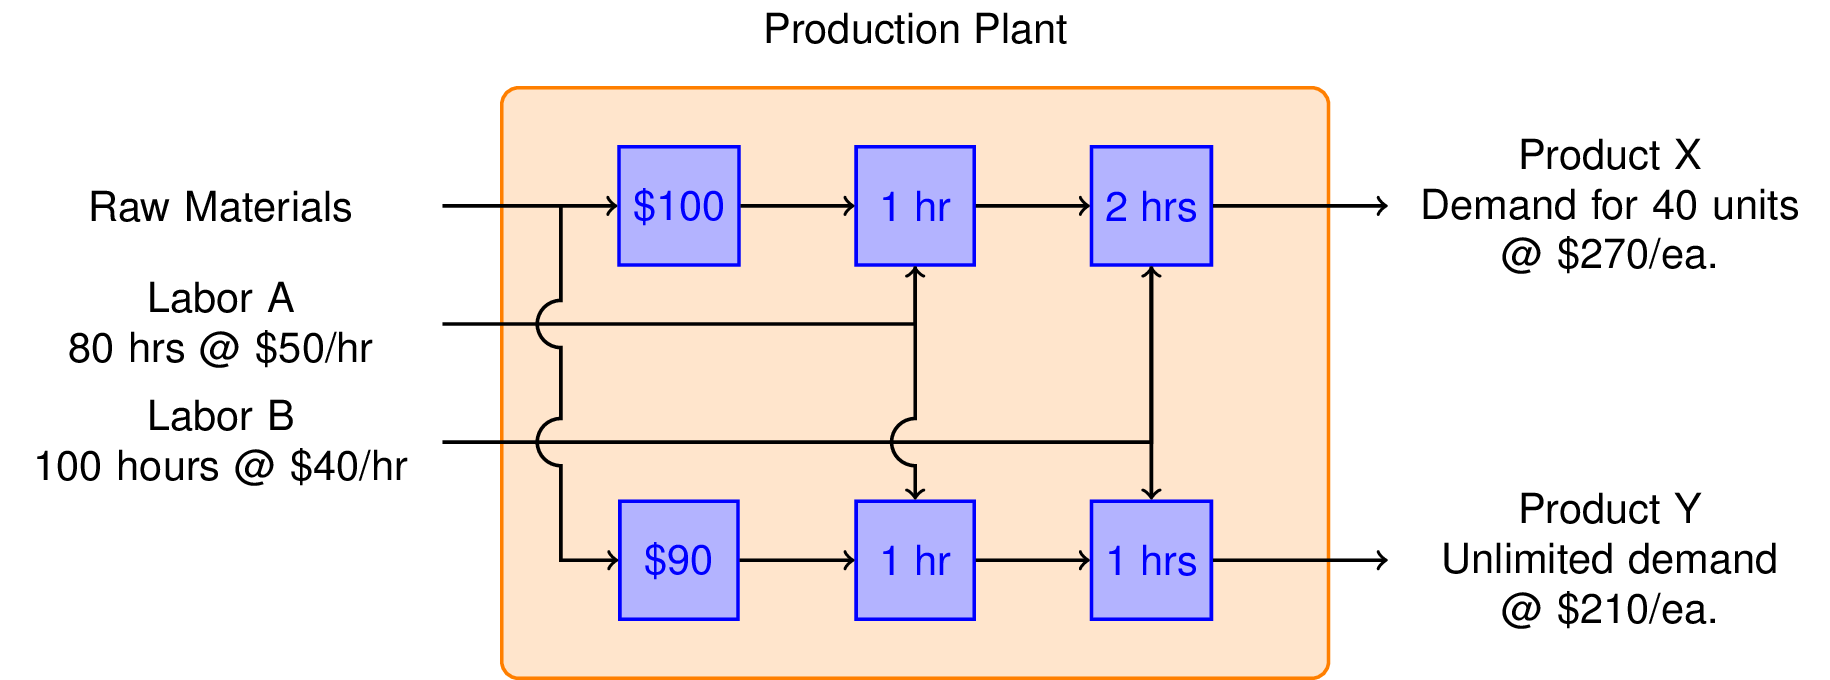
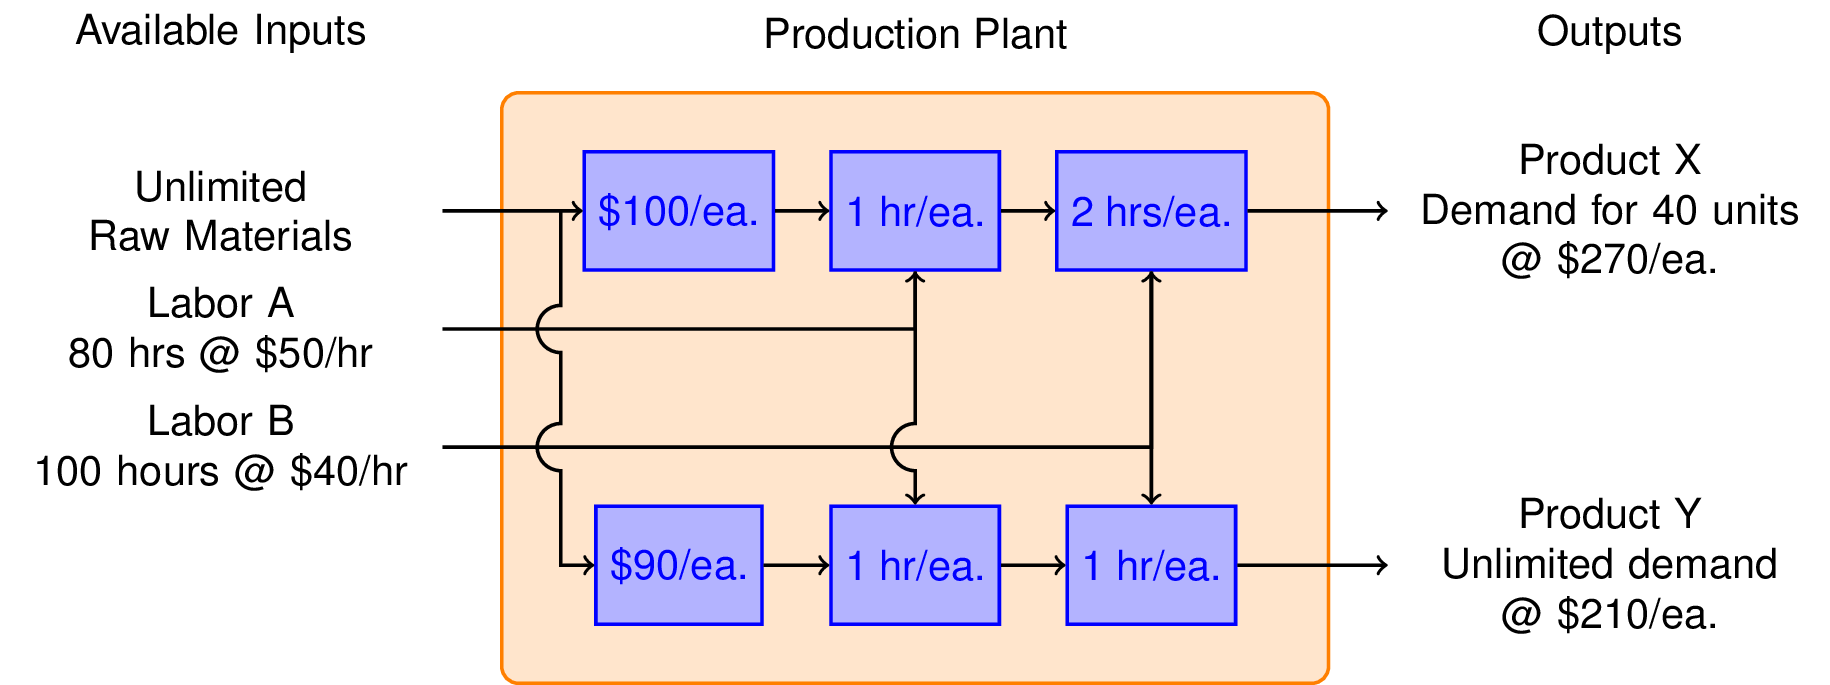
update figures

diff --git a/notebooks/img/LP_ProductY.tex b/notebooks/img/LP_ProductY.tex
@@ -16,30 +16,34 @@
     rectangle, rounded corners, text centered]
 
 \begin{tikzpicture}[auto,thick]
-    %\draw[help lines] (0,0) grid (15,8);
+    %\draw[help lines] (-1,1) grid (14,6);
     
     \draw [orange, fill=orange!20, rounded corners] (3,1.5) rectangle ++(7,3.5);
     \node [rectangle, blue, fill=blue!30, minimum width = 1cm, minimum height = 1cm, draw] 
-        (box1) at (4.5,4) {\$90};
+        (box1) at (4.5,4) {\$90/ea.};
     \node [rectangle, blue, fill=blue!30, minimum width = 1cm, minimum height = 1cm, draw] 
-        (box2) at (6.5,4) {1 hr};
+        (box2) at (6.5,4) {1 hr/ea.};
     \node [rectangle, blue, fill=blue!30, minimum width = 1cm, minimum height = 1cm, draw] 
-        (box3) at (8.5,4) {1 hrs};
+        (box3) at (8.5,4) {1 hr/ea.};
     
+    \draw (box1) ++(-2,1.5) 
+        node [left,rectangle,align=center, text width = 3.5cm] {Available Inputs};
     \draw [<-] (box1) -- ++(-2,0) 
         node [left,rectangle, align=center, text width = 3.5cm]
-        {Raw Materials};
+        {Unlimited\\Raw Materials};
     \draw [<-] (box2) -- ++(0,-1) -- ++(-4,0) 
         node [left,rectangle, align=center, text width = 3.5cm] 
-        {Labor A \\ 80 hrs @ \$50/hr};
+        {Labor A\\80 hrs @ \$50/hr};
     \draw [<-] (box3) -- ++(0,-2) -- ++(-6,0) 
         node [left,rectangle, align=center, text width = 3.5cm]
-        {Labor B \\ 100 hours @ \$40/hr};
+        {Labor B\\100 hours @ \$40/hr};
     \draw [->] (box1) -- ++(box2);
     \draw [->] (box2) -- ++(box3);
     \draw [->] (box3) -- ++(2,0) 
         node [right,rectangle, align=center, text width = 3.5cm] 
         {Product Y \\ Unlimited demand \\ @ \$210/ea.};
+    \draw (box3) ++(2,1.5) 
+        node [right,rectangle, align=center, text width = 3.5cm] {Outputs};
     
     \draw (6.5,5.5) node {Production Plant};
     

diff --git a/notebooks/img/LP_ProductXY.tex b/notebooks/img/LP_ProductXY.tex
@@ -21,22 +21,24 @@
     \draw [orange, fill=orange!20, rounded corners] (3,0) rectangle ++(7,5);
 
     \node [rectangle, blue, fill=blue!30, minimum width = 1cm, minimum height = 1cm, draw] 
-        (box1) at (4.5,4) {\$100};
+        (box1) at (4.5,4) {\$100/ea.};
     \node [rectangle, blue, fill=blue!30, minimum width = 1cm, minimum height = 1cm, draw] 
-        (box2) at (6.5,4) {1 hr};
+        (box2) at (6.5,4) {1 hr/ea.};
     \node [rectangle, blue, fill=blue!30, minimum width = 1cm, minimum height = 1cm, draw] 
-        (box3) at (8.5,4) {2 hrs};
+        (box3) at (8.5,4) {2 hrs/ea.};
 
     \node [rectangle, blue, fill=blue!30, minimum width = 1cm, minimum height = 1cm, draw] 
-        (box4) at (4.5,1) {\$90};
+        (box4) at (4.5,1) {\$90/ea.};
     \node [rectangle, blue, fill=blue!30, minimum width = 1cm, minimum height = 1cm, draw] 
-        (box5) at (6.5,1) {1 hr};
+        (box5) at (6.5,1) {1 hr/ea.};
     \node [rectangle, blue, fill=blue!30, minimum width = 1cm, minimum height = 1cm, draw] 
-        (box6) at (8.5,1) {1 hrs};
+        (box6) at (8.5,1) {1 hr/ea.};
     
+    \draw (box1) ++(-2,1.5) 
+        node [left,rectangle,align=center, text width = 3.5cm] {Available Inputs};
     \draw [<-] (box1) -- ++(-2,0) 
         node [left,rectangle, align=center, text width = 3.5cm]
-        {Raw Materials};
+        {Unlimited\\Raw Materials};
     \draw [<-] (box2) -- ++(0,-1) -- ++(-4,0) 
         node [left,rectangle, align=center, text width = 3.5cm] 
         {Labor A \\ 80 hrs @ \$50/hr};
@@ -59,6 +61,9 @@
     \draw [->] (box3) -- (box6);
     \draw [->] (box4) -- (box5);
     \draw [->] (box5) -- (box6);
+    \draw (box3) ++(2,1.5) 
+        node [right,rectangle, align=center, text width = 3.5cm] {Outputs};
+
     
     \draw (6.5,5.5) node {Production Plant};
     

diff --git a/notebooks/img/LP_ProductX.tex b/notebooks/img/LP_ProductX.tex
@@ -16,7 +16,7 @@
     rectangle, rounded corners, text centered]
 
 \begin{tikzpicture}[auto,thick]
-    \draw[help lines] (0,0) grid (15,7);
+    %\draw[help lines] (-1,1) grid (14,6);
     
     \draw [orange, fill=orange!20, rounded corners]
         (3,1.5) rectangle ++(7,3.5);
@@ -28,15 +28,15 @@
         (box3) at (8.5,4) {2 hrs/ea.};
         
     \draw (box1) ++(-2,1.5) 
-        node [left,rectangle,align=center, text width = 3cm] {Available Inputs};
+        node [left,rectangle,align=center, text width = 3.5cm] {Available Inputs};
     \draw [<-] (box1) -- ++(-2,0) 
-        node [left,rectangle, align=center, text width = 3cm]
+        node [left,rectangle, align=center, text width = 3.5cm]
         {Unlimited\\Raw Materials};
     \draw [<-] (box2) -- ++(0,-1) -- ++(-4,0) 
-        node [left,rectangle, align=center, text width = 3cm] 
+        node [left,rectangle, align=center, text width = 3.5cm] 
         {Labor A \\ 80 hrs @ \$50/hr};
     \draw [<-] (box3) -- ++(0,-2) -- ++(-6,0) 
-        node [left,rectangle, align=center, text width = 3cm]
+        node [left,rectangle, align=center, text width = 3.5cm]
         {Labor B \\ 100 hrs @ \$40/hr};
     \draw [->] (box1) -- ++(box2);
     \draw [->] (box2) -- ++(box3);
